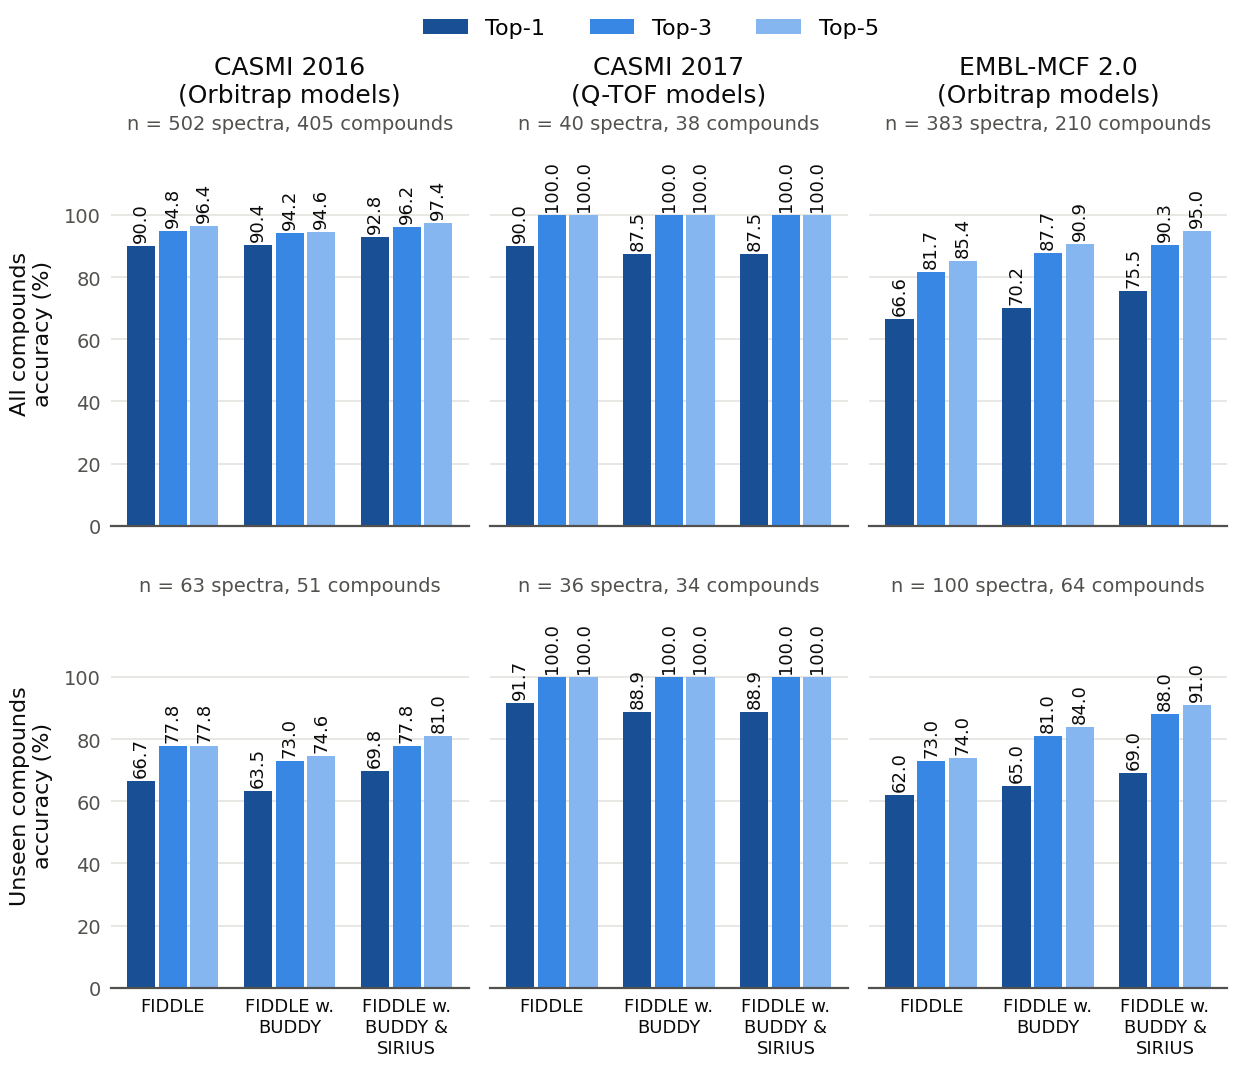
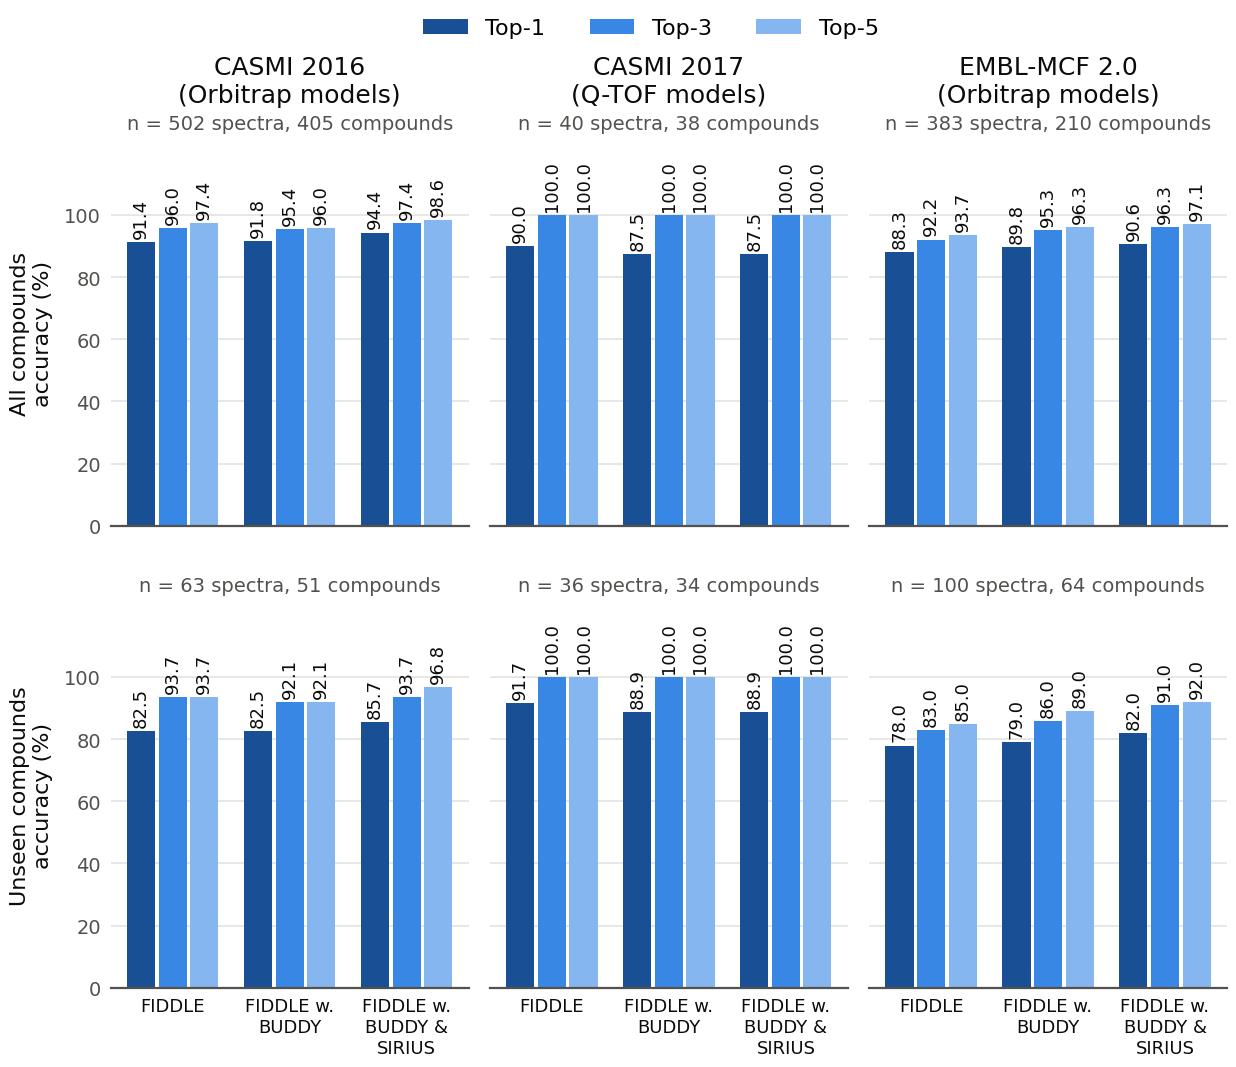
Redraw the benchmarks with the electron fix and simulated precursors
CASMI 2016 and EMBL-MCF 2.0 are given a simulated precursor m/z, EMBL
uses the Orbitrap release config, and refinement uses the corrected
neutral mass. With the same models and input, the electron fix alone
raises FIDDLE's top-1 by 8 to 15 points on the Orbitrap benchmarks.

diff --git a/CHANGELOG.md b/CHANGELOG.md
@@ -26,7 +26,7 @@ Uses the v2.3.0 checkpoints, so models downloaded for 2.3.0 keep working.
 
 ### Fixed
 
-- `precursor_mz_calculator` and `mass_calculator` left out the electron mass: an `[M+H]+` ion was given a hydrogen atom (1.007825 Da) instead of a proton (1.007276 Da), so every theoretical precursor m/z, and the neutral mass refinement searches around, was 0.55 mDa off (about 1.8 ppm at m/z 300; beyond the 5 ppm Orbitrap window below about m/z 110). This affected the refinement window, the ppm filters of preprocessing, the simulated precursor m/z and `check_precursor_error.py`, and benchmark and preprocessing results change with the fix. Data preprocessed before it carries the shifted `ppm` and `simulated_precursor_mz` values.
+- `precursor_mz_calculator` and `mass_calculator` left out the electron mass: an `[M+H]+` ion was given a hydrogen atom (1.007825 Da) instead of a proton (1.007276 Da), so every theoretical precursor m/z, and the neutral mass refinement searches around, was 0.55 mDa off (about 1.8 ppm at m/z 300; beyond the 5 ppm Orbitrap window below about m/z 110). This affected the refinement window, the ppm filters of preprocessing, the simulated precursor m/z and `check_precursor_error.py`, and benchmark and preprocessing results change with the fix. Data preprocessed before it carries the shifted `ppm` and `simulated_precursor_mz` values. With realistic precursor mass error, the offset pushed the true formula out of the Orbitrap window often: with the same models and input, the fix raises FIDDLE's top-1 from 83.7% to 91.4% on CASMI 2016, from 68.3% to 82.5% on its unseen compounds, and from 73.4% to 88.3% on EMBL-MCF 2.0.
 - `predict` and `--eval` read MGF files with pyteomics' indexed reader, which drops spectra without a `TITLE` and all but the last of a repeated `TITLE` without saying so. They now read every spectrum, and `validate` reports those as `missing_metadata` and `duplicate_id`; the spectra predicted and evaluated are the same as before.
 - A non-numeric `PRECURSOR_MZ` stopped `predict` with an error, as did a zero one; such spectra, and negative ones, are now skipped as `invalid_precursor_mz`. A peak with a negative m/z was binned among the highest m/z; such spectra are skipped as `invalid_peaks`.
 - `scripts/run_buddy_sirius.py` read the MGF file with the same indexed reader.
